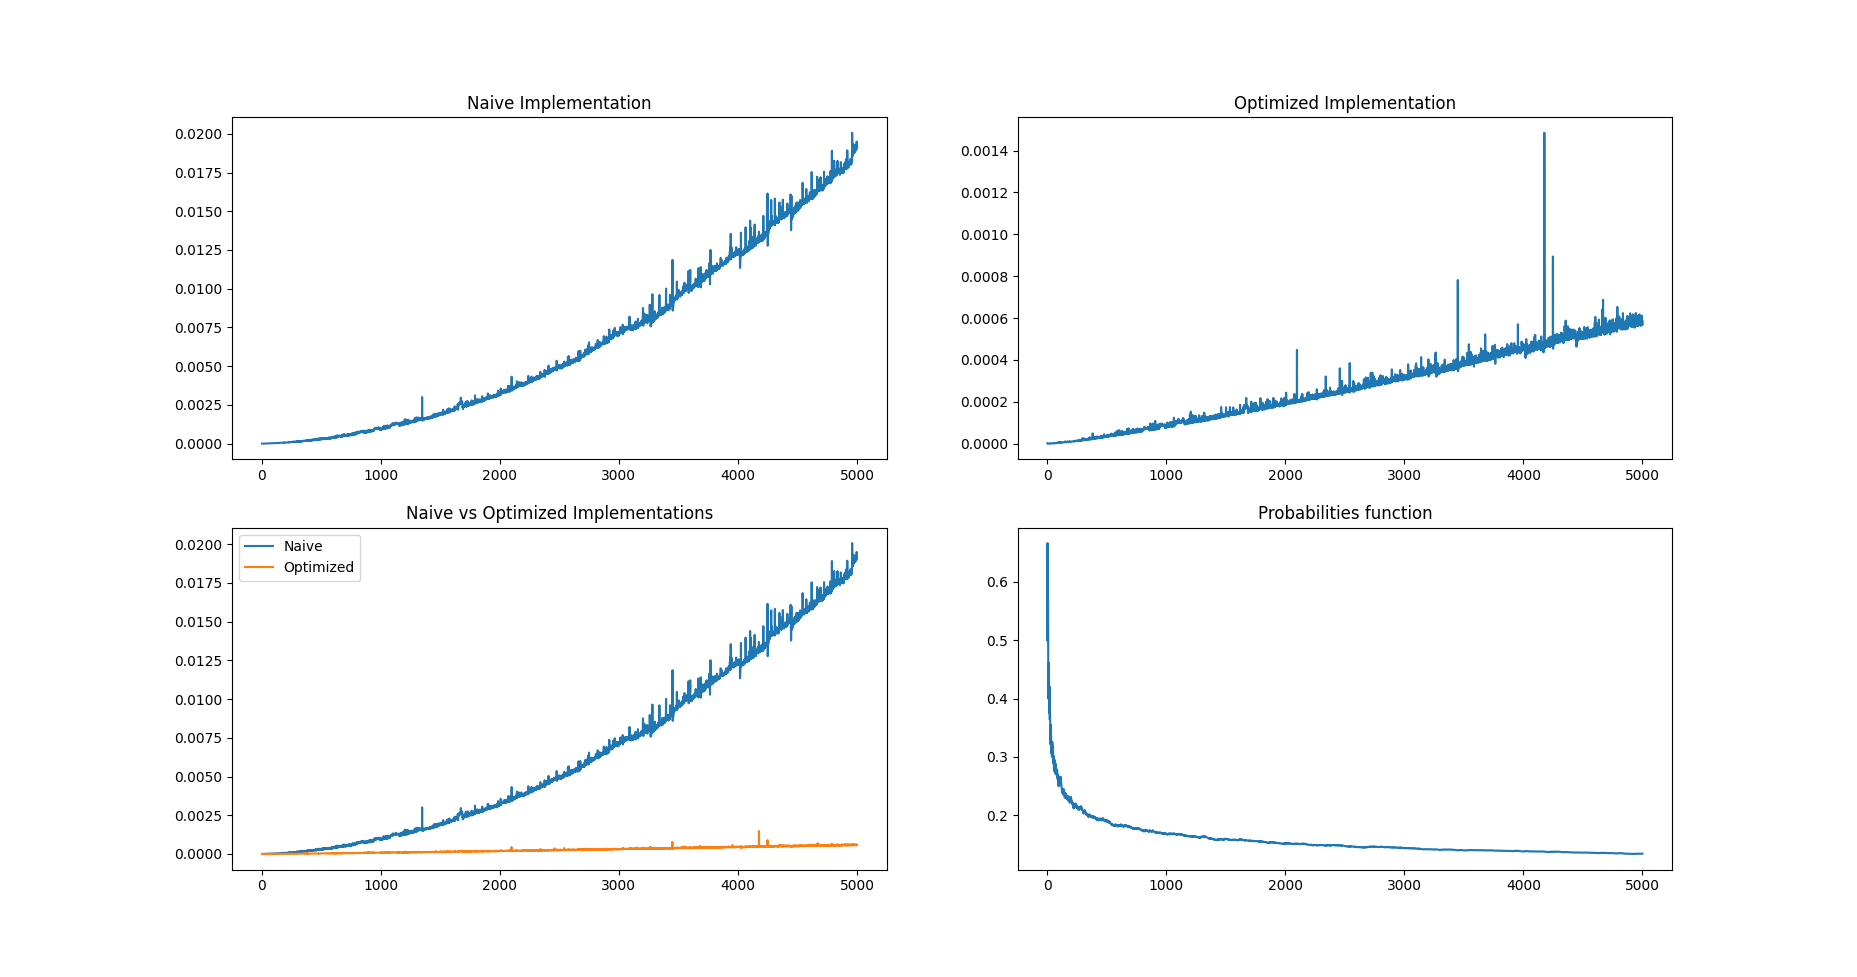
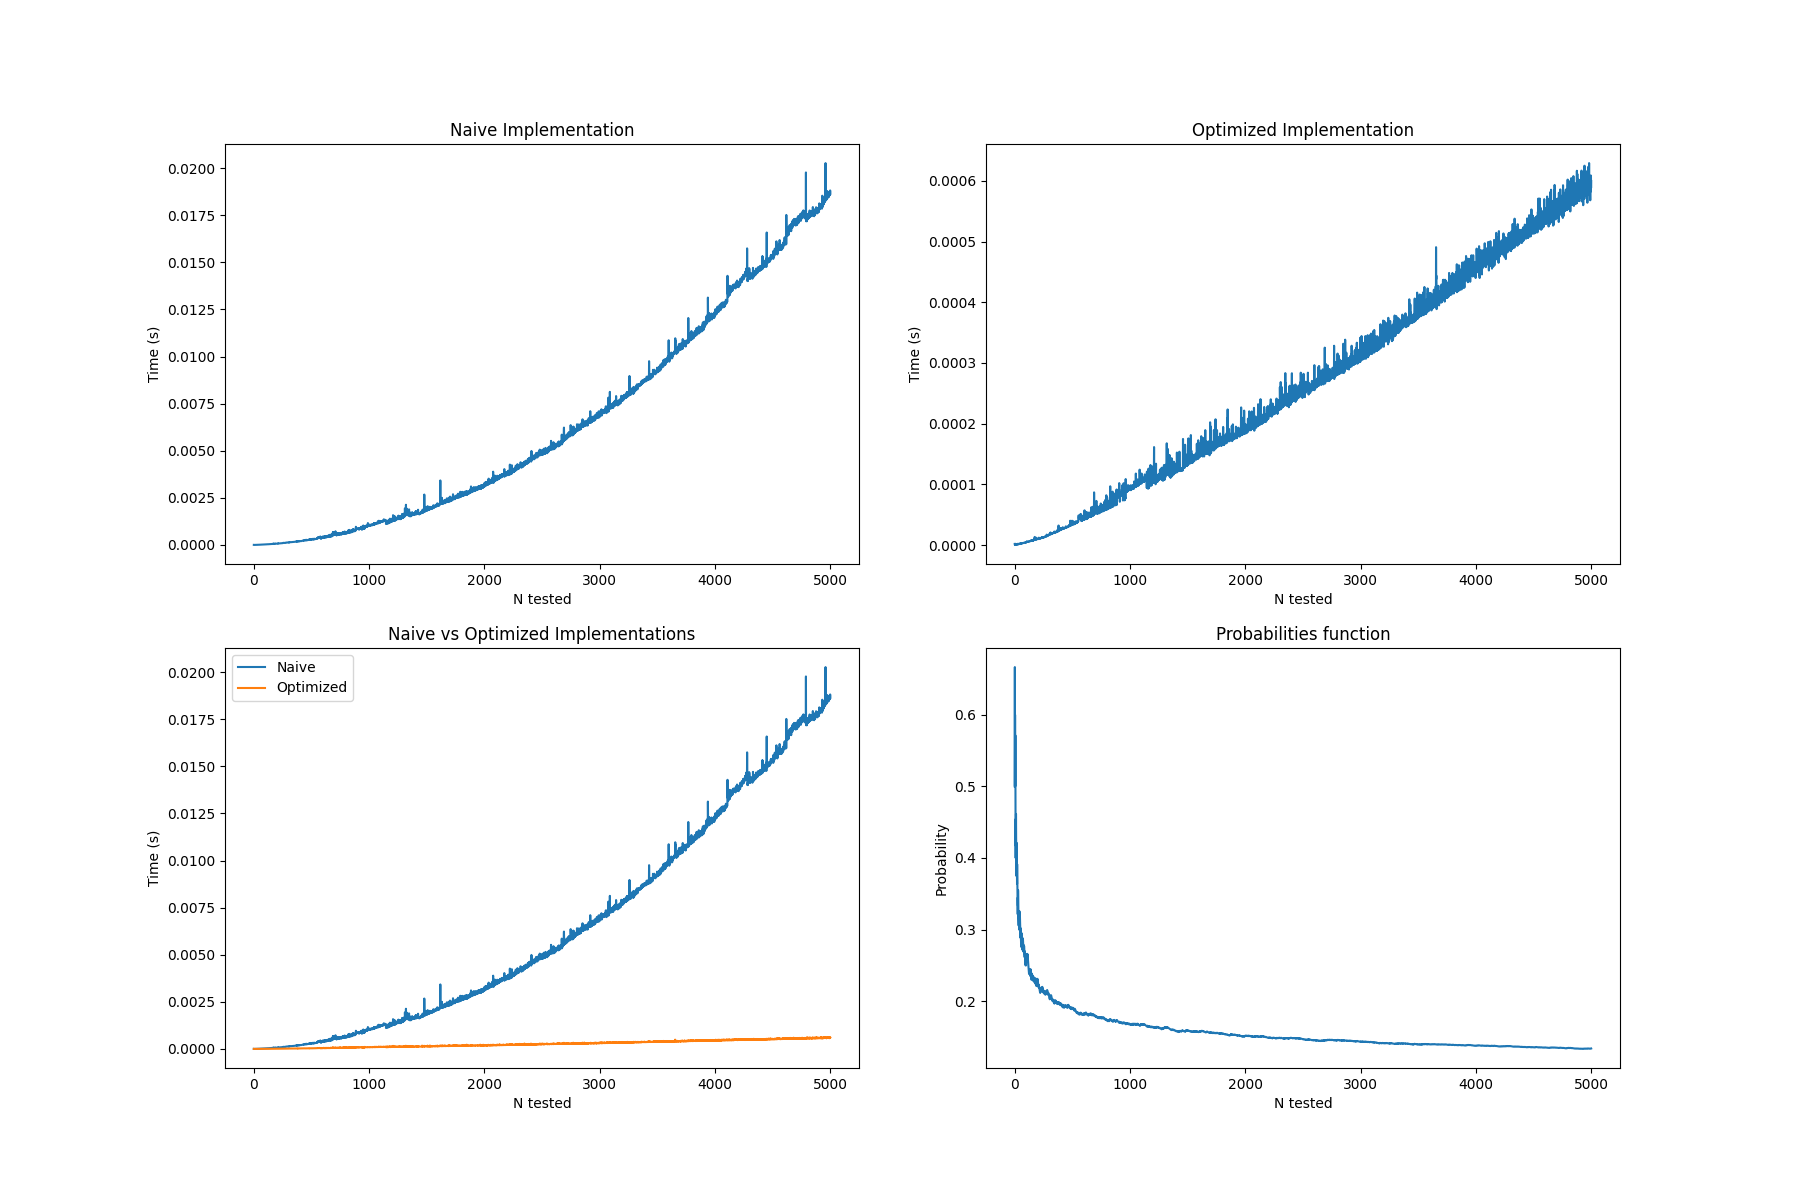
labels added to graphs

diff --git a/comparison.py b/comparison.py
@@ -15,15 +15,23 @@ for n in x:
     optimized.append(time()-beg)
     probs.append(prob)
 
-fig, ax = plt.subplots(2,2)
+fig, ax = plt.subplots(2,2, figsize=(18,12))
 ax[0,0].plot(x, naive)
 ax[0,0].set_title("Naive Implementation")
+ax[0,0].set_xlabel("N tested")
+ax[0,0].set_ylabel("Time (s)")
 ax[0,1].plot(x, optimized)
 ax[0,1].set_title("Optimized Implementation")
+ax[0,1].set_xlabel("N tested")
+ax[0,1].set_ylabel("Time (s)")
 ax[1,0].plot(x, naive, label="Naive")
 ax[1,0].plot(x, optimized, label="Optimized")
+ax[1,0].set_xlabel("N tested")
+ax[1,0].set_ylabel("Time (s)")
 ax[1,0].set_title("Naive vs Optimized Implementations")
 ax[1,0].legend()
 ax[1,1].plot(x, probs)
+ax[1,1].set_xlabel("N tested")
+ax[1,1].set_ylabel("Probability")
 ax[1,1].set_title("Probabilities function")
-plt.show()
+plt.savefig("./results.png")